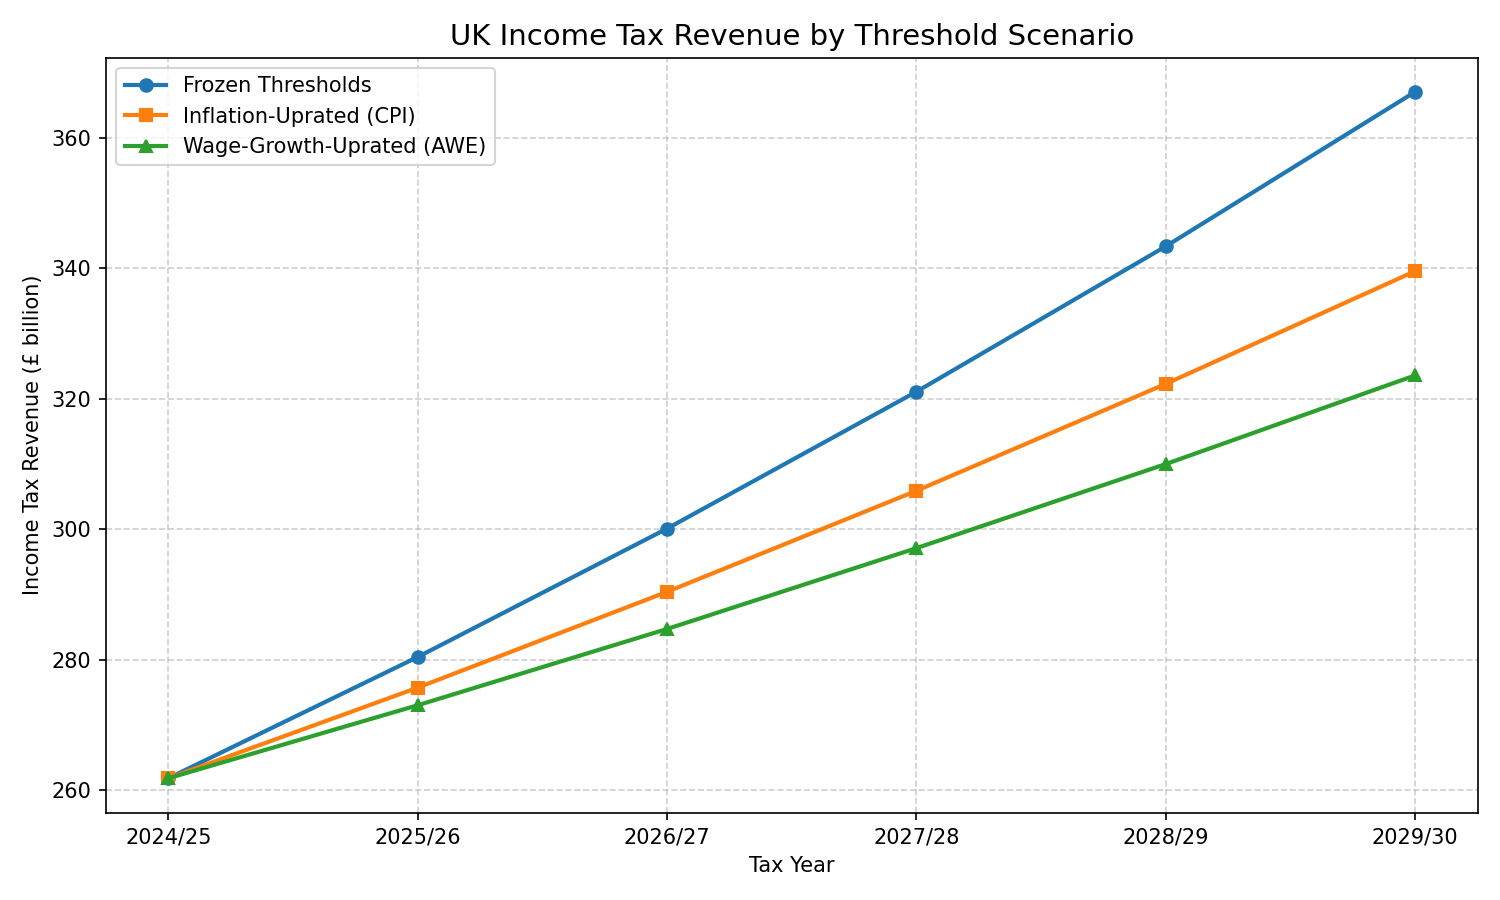
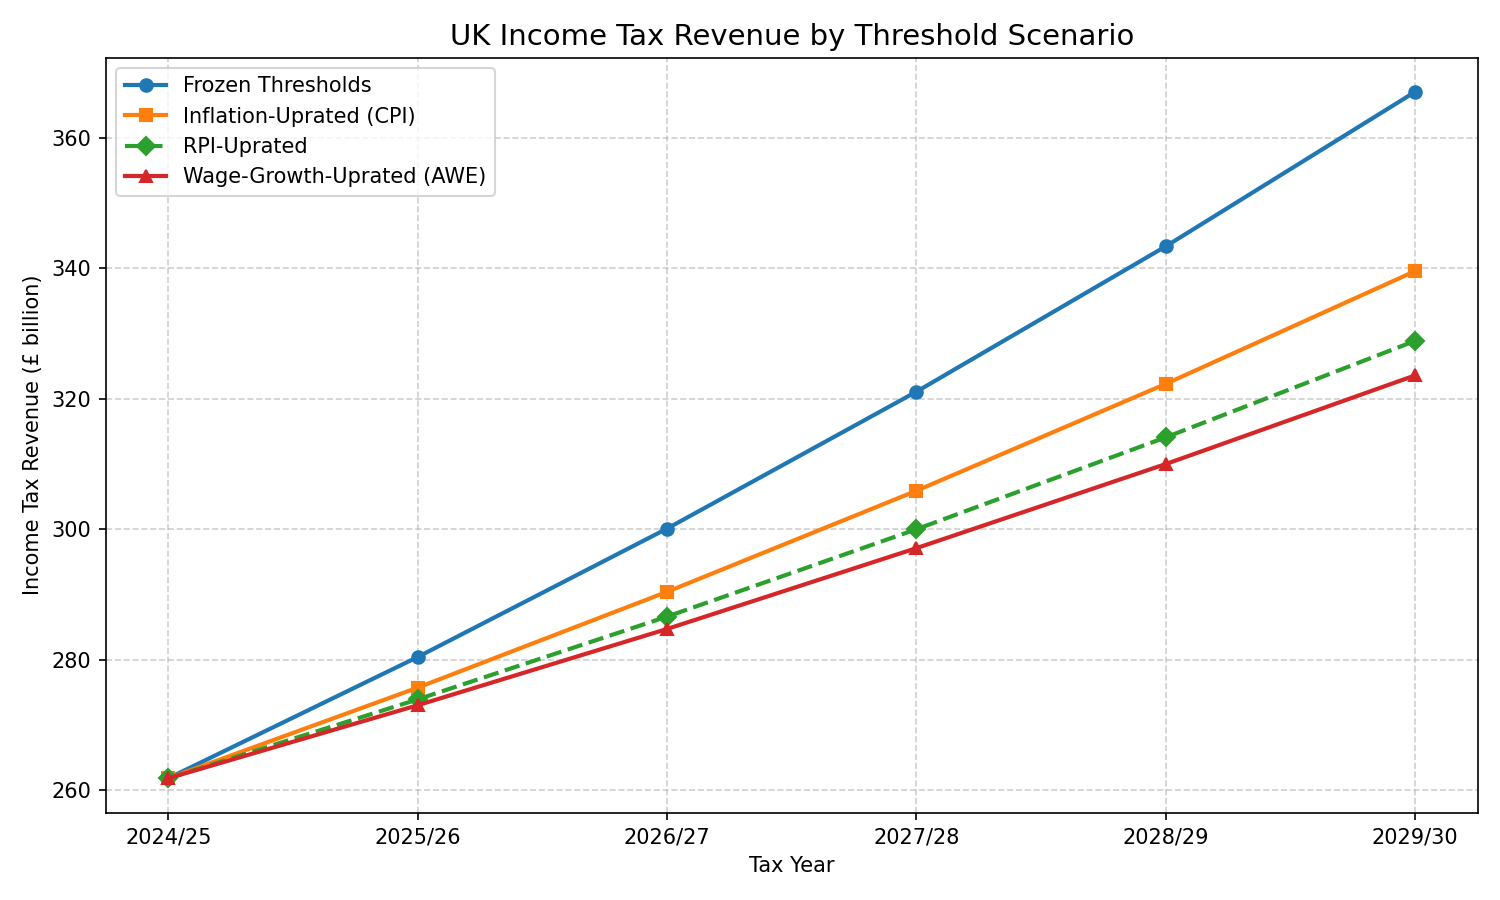
Add RPI scenario, comparison plot, and interactive Streamlit dashboard

diff --git a/tax_analysis.py b/tax_analysis.py
@@ -1,11 +1,12 @@
 """
 UK Income Tax Threshold Analysis
 =================================
-Analyses income tax revenue under three threshold scenarios:
+Analyses income tax revenue under four threshold scenarios:
 
   1. Frozen Thresholds  – thresholds held at 2024/25 levels (fiscal drag)
   2. Inflation-Uprated  – thresholds rise each year with CPI
   3. Wage-Growth-Uprated – thresholds rise each year with Average Weekly Earnings
+  4. RPI-Uprated         – thresholds rise each year with RPI
 
 In all scenarios wage growth drives the underlying income distribution upward,
 which is what makes scenarios 1 and 2 raise more revenue than scenario 3.
@@ -36,6 +37,7 @@ NUM_TAXPAYERS = 34_700_000
 
 # ── Economic assumptions ──────────────────────────────────────────────────────
 ANNUAL_INFLATION   = 0.025  # CPI: Bank of England target
+ANNUAL_RPI         = 0.035  # RPI: typically ~1 pp above CPI
 ANNUAL_WAGE_GROWTH = 0.040  # AWE: OBR central forecast
 
 PROJECTION_YEARS = 5  # 2025/26 – 2029/30
@@ -130,17 +132,28 @@ def total_revenue(pa: float, basic_limit: float, higher_limit: float,
 
 # ── Scenario projection ───────────────────────────────────────────────────────
 
-def build_scenarios() -> pd.DataFrame:
+def build_scenarios(
+    cpi_rate: float = ANNUAL_INFLATION,
+    rpi_rate: float = ANNUAL_RPI,
+    wage_rate: float = ANNUAL_WAGE_GROWTH,
+) -> pd.DataFrame:
     """
     Project income tax revenue for each scenario over PROJECTION_YEARS years.
+
+    Parameters
+    ----------
+    rpi_rate  : annual RPI rate (default ANNUAL_RPI)
+    cpi_rate  : annual CPI/inflation rate (default ANNUAL_INFLATION)
+    wage_rate : annual wage-growth rate (default ANNUAL_WAGE_GROWTH)
 
     Returns a DataFrame with one row per tax year (including the base year).
     """
     rows = []
     for t in range(PROJECTION_YEARS + 1):  # t=0 is the base year 2024/25
         year_label = f"{BASE_YEAR + t}/{str(BASE_YEAR + t + 1)[-2:]}"
-        wage_scale = (1 + ANNUAL_WAGE_GROWTH) ** t
-        inf_scale  = (1 + ANNUAL_INFLATION)   ** t
+        wage_scale = (1 + wage_rate) ** t
+        inf_scale  = (1 + cpi_rate)  ** t
+        rpi_scale  = (1 + rpi_rate)  ** t
 
         # Scenario 1: thresholds frozen at 2024/25 levels
         rev_frozen = total_revenue(
@@ -166,11 +179,20 @@ def build_scenarios() -> pd.DataFrame:
             income_scale=wage_scale,
         )
 
+        # Scenario 4: thresholds uprated annually with RPI
+        rev_rpi = total_revenue(
+            PERSONAL_ALLOWANCE * rpi_scale,
+            BASIC_RATE_LIMIT   * rpi_scale,
+            HIGHER_RATE_LIMIT  * rpi_scale,
+            income_scale=wage_scale,
+        )
+
         rows.append({
             "Tax Year":                   year_label,
             "Frozen Thresholds (£bn)":    round(rev_frozen, 1),
             "Inflation-Uprated (£bn)":    round(rev_inflation, 1),
             "Wage-Growth-Uprated (£bn)":  round(rev_wages, 1),
+            "RPI-Uprated (£bn)":          round(rev_rpi, 1),
         })
 
     return pd.DataFrame(rows)
@@ -181,12 +203,13 @@ def build_scenarios() -> pd.DataFrame:
 def print_results(df: pd.DataFrame) -> None:
     """Print the revenue table and fiscal-drag summary to stdout."""
     print("\nUK Income Tax Revenue Projections")
-    print("=" * 65)
+    print("=" * 75)
     print("Assumptions:")
     print(f"  Annual wage growth (AWE):  {ANNUAL_WAGE_GROWTH:.1%}")
     print(f"  Annual CPI inflation:      {ANNUAL_INFLATION:.1%}")
+    print(f"  Annual RPI inflation:      {ANNUAL_RPI:.1%}")
     print(f"  Number of taxpayers:       {NUM_TAXPAYERS:,}")
-    print("=" * 65)
+    print("=" * 75)
     print(df.to_string(index=False))
     print()
 
@@ -198,6 +221,9 @@ def print_results(df: pd.DataFrame) -> None:
     drag["vs Wage Growth (£bn)"] = (
         df["Frozen Thresholds (£bn)"] - df["Wage-Growth-Uprated (£bn)"]
     ).round(1)
+    drag["vs RPI (£bn)"] = (
+        df["Frozen Thresholds (£bn)"] - df["RPI-Uprated (£bn)"]
+    ).round(1)
 
     print("Fiscal Drag (extra revenue from frozen thresholds vs each scenario):")
     print(drag.to_string(index=False))
@@ -205,13 +231,15 @@ def print_results(df: pd.DataFrame) -> None:
 
 
 def plot_results(df: pd.DataFrame, output_path: str = "tax_revenue_scenarios.png") -> None:
-    """Save a line chart comparing the three scenarios."""
+    """Save a line chart comparing the four scenarios."""
     fig, ax = plt.subplots(figsize=(10, 6))
 
     ax.plot(df["Tax Year"], df["Frozen Thresholds (£bn)"],
             marker="o", linewidth=2, label="Frozen Thresholds")
     ax.plot(df["Tax Year"], df["Inflation-Uprated (£bn)"],
             marker="s", linewidth=2, label="Inflation-Uprated (CPI)")
+    ax.plot(df["Tax Year"], df["RPI-Uprated (£bn)"],
+            marker="D", linewidth=2, linestyle="--", label="RPI-Uprated")
     ax.plot(df["Tax Year"], df["Wage-Growth-Uprated (£bn)"],
             marker="^", linewidth=2, label="Wage-Growth-Uprated (AWE)")
 
@@ -226,9 +254,55 @@ def plot_results(df: pd.DataFrame, output_path: str = "tax_revenue_scenarios.png
     print(f"Chart saved to {output_path}")
 
 
+def plot_rpi_comparison(
+    df: pd.DataFrame,
+    output_path: str = "tax_revenue_vs_rpi.png",
+) -> None:
+    """
+    Save a chart showing the revenue gap between each scenario and
+    RPI-uprated thresholds (as an analogue for expected expenditure increases).
+
+    A positive value means the scenario raises *more* revenue than RPI-uprating
+    (i.e. additional fiscal drag relative to RPI growth).
+    """
+    fig, ax = plt.subplots(figsize=(10, 6))
+
+    ax.plot(
+        df["Tax Year"],
+        df["Frozen Thresholds (£bn)"] - df["RPI-Uprated (£bn)"],
+        marker="o", linewidth=2, label="Frozen vs RPI-Uprated",
+    )
+    ax.plot(
+        df["Tax Year"],
+        df["Inflation-Uprated (£bn)"] - df["RPI-Uprated (£bn)"],
+        marker="s", linewidth=2, label="CPI-Uprated vs RPI-Uprated",
+    )
+    ax.plot(
+        df["Tax Year"],
+        df["Wage-Growth-Uprated (£bn)"] - df["RPI-Uprated (£bn)"],
+        marker="^", linewidth=2, label="Wage-Growth-Uprated vs RPI-Uprated",
+    )
+    ax.axhline(0, color="black", linewidth=0.8)
+
+    ax.set_title(
+        "Revenue Difference vs RPI-Uprated Thresholds\n"
+        "(positive = more revenue than RPI scenario)",
+        fontsize=14,
+    )
+    ax.set_xlabel("Tax Year")
+    ax.set_ylabel("Revenue Difference (£ billion)")
+    ax.legend()
+    ax.grid(True, linestyle="--", alpha=0.6)
+    plt.tight_layout()
+    plt.savefig(output_path, dpi=150)
+    plt.close()
+    print(f"RPI comparison chart saved to {output_path}")
+
+
 # ── Entry point ───────────────────────────────────────────────────────────────
 
 if __name__ == "__main__":
     df = build_scenarios()
     print_results(df)
     plot_results(df)
+    plot_rpi_comparison(df)

diff --git a/dashboard.py b/dashboard.py
@@ -1,0 +1,169 @@
+"""
+UK Income Tax Threshold Analysis – Interactive Dashboard
+=========================================================
+Run with:  streamlit run dashboard.py
+"""
+
+import matplotlib.pyplot as plt
+import streamlit as st
+
+from tax_analysis import (
+    ANNUAL_INFLATION,
+    ANNUAL_RPI,
+    ANNUAL_WAGE_GROWTH,
+    NUM_TAXPAYERS,
+    PROJECTION_YEARS,
+    build_scenarios,
+)
+
+st.set_page_config(
+    page_title="UK Income Tax Threshold Analysis",
+    layout="wide",
+)
+
+st.title("UK Income Tax Threshold Analysis")
+st.markdown(
+    "Explore how different threshold-uprating policies affect income tax revenue "
+    "over the next five years.  Use the controls in the sidebar to adjust the "
+    "economic assumptions."
+)
+
+# ── Sidebar controls ──────────────────────────────────────────────────────────
+
+st.sidebar.header("Economic Assumptions")
+
+wage_rate = (
+    st.sidebar.slider(
+        "Annual Wage Growth – AWE (%)",
+        min_value=0.0,
+        max_value=10.0,
+        value=round(ANNUAL_WAGE_GROWTH * 100, 1),
+        step=0.1,
+        help="Average Weekly Earnings growth that shifts the income distribution.",
+    )
+    / 100
+)
+
+cpi_rate = (
+    st.sidebar.slider(
+        "Annual CPI Inflation (%)",
+        min_value=0.0,
+        max_value=10.0,
+        value=round(ANNUAL_INFLATION * 100, 1),
+        step=0.1,
+        help="Consumer Prices Index used to uprate thresholds in the CPI scenario.",
+    )
+    / 100
+)
+
+rpi_rate = (
+    st.sidebar.slider(
+        "Annual RPI Inflation (%)",
+        min_value=0.0,
+        max_value=10.0,
+        value=round(ANNUAL_RPI * 100, 1),
+        step=0.1,
+        help=(
+            "Retail Prices Index used to uprate thresholds in the RPI scenario "
+            "and as a proxy for expected expenditure increases."
+        ),
+    )
+    / 100
+)
+
+st.sidebar.markdown("---")
+st.sidebar.caption(
+    f"Base year: 2024/25 · {NUM_TAXPAYERS:,} taxpayers · "
+    f"{PROJECTION_YEARS}-year projection"
+)
+
+# ── Build scenarios ───────────────────────────────────────────────────────────
+
+df = build_scenarios(rpi_rate=rpi_rate, cpi_rate=cpi_rate, wage_rate=wage_rate)
+
+# ── Plot 1 – revenue by scenario ─────────────────────────────────────────────
+
+col1, col2 = st.columns(2)
+
+with col1:
+    st.subheader("Revenue by Threshold Scenario")
+
+    fig1, ax1 = plt.subplots(figsize=(7, 5))
+    ax1.plot(
+        df["Tax Year"], df["Frozen Thresholds (£bn)"],
+        marker="o", linewidth=2, label="Frozen Thresholds",
+    )
+    ax1.plot(
+        df["Tax Year"], df["Inflation-Uprated (£bn)"],
+        marker="s", linewidth=2, label=f"CPI-Uprated ({cpi_rate:.1%})",
+    )
+    ax1.plot(
+        df["Tax Year"], df["RPI-Uprated (£bn)"],
+        marker="D", linewidth=2, linestyle="--",
+        label=f"RPI-Uprated ({rpi_rate:.1%})",
+    )
+    ax1.plot(
+        df["Tax Year"], df["Wage-Growth-Uprated (£bn)"],
+        marker="^", linewidth=2, label=f"Wage-Growth-Uprated ({wage_rate:.1%})",
+    )
+    ax1.set_xlabel("Tax Year")
+    ax1.set_ylabel("Income Tax Revenue (£ billion)")
+    ax1.legend(fontsize=9)
+    ax1.grid(True, linestyle="--", alpha=0.6)
+    plt.tight_layout()
+    st.pyplot(fig1)
+    plt.close(fig1)
+
+# ── Plot 2 – revenue gap vs RPI ───────────────────────────────────────────────
+
+with col2:
+    st.subheader("Revenue vs RPI-Uprated Thresholds")
+    st.caption(
+        "Positive values indicate more revenue than the RPI-uprated scenario "
+        "(additional fiscal drag relative to RPI expenditure growth)."
+    )
+
+    fig2, ax2 = plt.subplots(figsize=(7, 5))
+    ax2.plot(
+        df["Tax Year"],
+        df["Frozen Thresholds (£bn)"] - df["RPI-Uprated (£bn)"],
+        marker="o", linewidth=2, label="Frozen vs RPI-Uprated",
+    )
+    ax2.plot(
+        df["Tax Year"],
+        df["Inflation-Uprated (£bn)"] - df["RPI-Uprated (£bn)"],
+        marker="s", linewidth=2, label=f"CPI ({cpi_rate:.1%}) vs RPI ({rpi_rate:.1%})",
+    )
+    ax2.plot(
+        df["Tax Year"],
+        df["Wage-Growth-Uprated (£bn)"] - df["RPI-Uprated (£bn)"],
+        marker="^", linewidth=2,
+        label=f"Wage-Growth ({wage_rate:.1%}) vs RPI ({rpi_rate:.1%})",
+    )
+    ax2.axhline(0, color="black", linewidth=0.8)
+    ax2.set_xlabel("Tax Year")
+    ax2.set_ylabel("Revenue Difference (£ billion)")
+    ax2.legend(fontsize=9)
+    ax2.grid(True, linestyle="--", alpha=0.6)
+    plt.tight_layout()
+    st.pyplot(fig2)
+    plt.close(fig2)
+
+# ── Data table ────────────────────────────────────────────────────────────────
+
+with st.expander("Show full data table"):
+    st.dataframe(df, use_container_width=True)
+
+    drag = df[["Tax Year"]].copy()
+    drag["Frozen vs CPI (£bn)"] = (
+        df["Frozen Thresholds (£bn)"] - df["Inflation-Uprated (£bn)"]
+    ).round(1)
+    drag["Frozen vs RPI (£bn)"] = (
+        df["Frozen Thresholds (£bn)"] - df["RPI-Uprated (£bn)"]
+    ).round(1)
+    drag["Frozen vs Wages (£bn)"] = (
+        df["Frozen Thresholds (£bn)"] - df["Wage-Growth-Uprated (£bn)"]
+    ).round(1)
+
+    st.subheader("Fiscal Drag (extra revenue from frozen thresholds)")
+    st.dataframe(drag, use_container_width=True)

diff --git a/tests/test_tax_analysis.py b/tests/test_tax_analysis.py
@@ -12,6 +12,7 @@ from tax_analysis import (
     HIGHER_RATE_LIMIT,
     TAPER_THRESHOLD,
     TAX_RATES,
+    ANNUAL_RPI,
     effective_personal_allowance,
     compute_tax,
     total_revenue,
@@ -183,3 +184,41 @@ class TestBuildScenarios:
         """Frozen thresholds + wage growth → revenue increases each year."""
         revenues = self.df["Frozen Thresholds (£bn)"].tolist()
         assert all(revenues[i] <= revenues[i + 1] for i in range(len(revenues) - 1))
+
+
+class TestBuildScenariosRPI:
+    def setup_method(self):
+        self.df = build_scenarios()
+
+    def test_rpi_column_present(self):
+        """RPI-Uprated column should be present in the output."""
+        assert "RPI-Uprated (£bn)" in self.df.columns
+
+    def test_rpi_uprated_between_cpi_and_wages(self):
+        """With default rates (RPI > CPI, RPI < wage growth), RPI-uprated revenue
+        should be between inflation-uprated and wage-growth-uprated revenue."""
+        for _, row in self.df.iterrows():
+            assert row["RPI-Uprated (£bn)"] <= row["Inflation-Uprated (£bn)"], (
+                f"RPI-uprated should be <= CPI-uprated for {row['Tax Year']}"
+            )
+            assert row["RPI-Uprated (£bn)"] >= row["Wage-Growth-Uprated (£bn)"], (
+                f"RPI-uprated should be >= wage-uprated for {row['Tax Year']}"
+            )
+
+    def test_frozen_exceeds_rpi_uprated(self):
+        """Frozen thresholds should raise more revenue than RPI-uprated thresholds."""
+        for _, row in self.df.iterrows():
+            assert row["Frozen Thresholds (£bn)"] >= row["RPI-Uprated (£bn)"], (
+                f"Failed for {row['Tax Year']}"
+            )
+
+    def test_custom_rates_accepted(self):
+        """build_scenarios() should accept custom rpi/cpi/wage rate arguments."""
+        df_custom = build_scenarios(rpi_rate=0.04, cpi_rate=0.02, wage_rate=0.05)
+        assert isinstance(df_custom, pd.DataFrame)
+        assert len(df_custom) == PROJECTION_YEARS + 1
+
+    def test_annual_rpi_constant_positive(self):
+        """ANNUAL_RPI should be a positive float."""
+        assert isinstance(ANNUAL_RPI, float)
+        assert ANNUAL_RPI > 0
